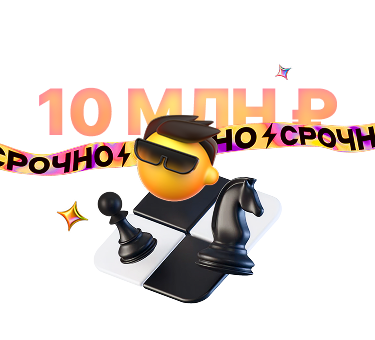
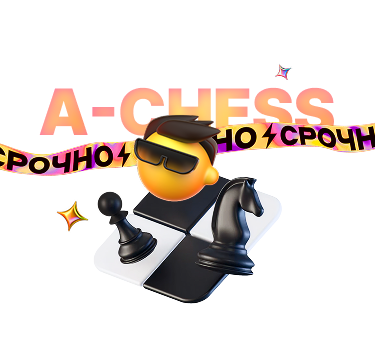
fix

Changed region(s): [[0.088, 0.2353, 0.9093, 0.4118]]

diff --git a/src/App.tsx b/src/App.tsx
@@ -1,19 +1,15 @@
-import { BottomSheet } from '@alfalab/core-components/bottom-sheet/cssm';
 import { Button } from '@alfalab/core-components/button/cssm';
-import { Checkbox } from '@alfalab/core-components/checkbox/cssm';
 import { Gap } from '@alfalab/core-components/gap/cssm';
 import { PureCell } from '@alfalab/core-components/pure-cell/cssm';
 import { Typography } from '@alfalab/core-components/typography/cssm';
 import { ExclamationCircleMIcon } from '@alfalab/icons-glyph/ExclamationCircleMIcon';
 import { useEffect, useState } from 'react';
 import { Swiper, SwiperSlide } from 'swiper/react';
-import detailsImg from './assets/details.png';
-import firstPlaceImg from './assets/place1.svg';
 
 import hbImg from './assets/hb.png';
 import lockImg from './assets/lock.svg';
 import radarImg from './assets/radar.svg';
-import { achievementSlides, avaSlides, boardSlides, bundles, figSlides, listItems, phoneSlides } from './data';
+import { achievementSlides, phoneSlides } from './data';
 import { LS, LSKeys } from './ls';
 import { appSt } from './style.css';
 
@@ -22,13 +18,6 @@ const LINK =
 
 export const App = () => {
   const [loading, setLoading] = useState(false);
-  const [openBs, setOpenBs] = useState(false);
-  const [bundlesState, setBundlesState] = useState<string[]>(['Альфа-Шахматы']);
-
-  const bundlesSum = bundlesState.reduce((sum, title) => {
-    const bundle = bundles.find(b => b.title === title);
-    return sum + (bundle ? (typeof bundle.price === 'number' ? bundle.price : 0) : 0);
-  }, 0);
 
   useEffect(() => {
     if (!LS.getItem(LSKeys.UserId, null)) {
@@ -51,7 +40,7 @@ export const App = () => {
               Альфа-Шахматы
             </Typography.TitleResponsive>
             <Typography.Text view="primary-small" color="secondary">
-              с призовым фондом
+              Стань лучшим среди Альфы
             </Typography.Text>
           </div>
           <img
@@ -61,9 +50,18 @@ export const App = () => {
             height={260}
             style={{ objectFit: 'cover', transform: 'scale(1.1)', margin: '-1rem 0 1rem' }}
           />
-          <Typography.Text view="primary-small" color="secondary">
-            Участвуйте в онлайн турнире с оффлайн финалом в Москве
-          </Typography.Text>
+          <PureCell className={appSt.bannerCell}>
+            <PureCell.Content>
+              <PureCell.Main>
+                <Typography.Text view="primary-small" color="secondary">
+                  Прогрессируйте при помощи классической системы обучения
+                </Typography.Text>
+              </PureCell.Main>
+            </PureCell.Content>
+            <PureCell.Graphics verticalAlign="center">
+              <ExclamationCircleMIcon color="#898991" />
+            </PureCell.Graphics>
+          </PureCell>
         </div>
 
         <div style={{ marginLeft: '20px' }}>
@@ -86,107 +84,7 @@ export const App = () => {
           </Swiper>
         </div>
 
-        <div className={appSt.boxBP}>
-          <Typography.TitleResponsive tag="h3" view="medium" weight="bold">
-            Сезонный пропуск
-          </Typography.TitleResponsive>
-
-          <div>
-            <div className={appSt.row}>
-              <Typography.Text view="primary-large" weight="medium">
-                Рамки аватаров
-              </Typography.Text>
-
-              <div className={appSt.tag}>
-                <Typography.Text view="primary-small" color="secondary">
-                  0 из 20
-                </Typography.Text>
-              </div>
-            </div>
-            <Typography.Text view="primary-small" color="secondary">
-              Уникальная рамка за каждый уровень мастерства
-            </Typography.Text>
-          </div>
-
-          <div>
-            <Swiper slidesPerView="auto" spaceBetween={8}>
-              {avaSlides.map((slide, index) => (
-                <SwiperSlide style={{ width: 'fit-content' }} key={index}>
-                  <div className={appSt.slideAva}>
-                    <Typography.TitleResponsive tag="h3" view="small" weight="bold">
-                      {slide.title}
-                    </Typography.TitleResponsive>
-                    <div style={{ height: '80px', margin: `${index > 6 ? '-20px' : '0'} auto 0` }}>
-                      <img src={slide.img} alt={`Avatar Slide ${index + 1}`} width={80} />
-                    </div>
-                    <div className={appSt.row} style={{ marginTop: 'auto' }}>
-                      <Typography.Text view="primary-small" color="secondary">
-                        Уровень {index + 1}
-                      </Typography.Text>
-                      <img src={lockImg} alt="Lock" width={28} height={28} />
-                    </div>
-                  </div>
-                </SwiperSlide>
-              ))}
-            </Swiper>
-          </div>
-
-          <div>
-            <div className={appSt.row}>
-              <Typography.Text view="primary-large" weight="medium">
-                Наборы досок
-              </Typography.Text>
-
-              <div className={appSt.tag}>
-                <Typography.Text view="primary-small" color="secondary">
-                  0 из 5
-                </Typography.Text>
-              </div>
-            </div>
-            <Typography.Text view="primary-small" color="secondary">
-              5 разных настроений игры
-            </Typography.Text>
-          </div>
-
-          <div>
-            <Swiper slidesPerView="auto" spaceBetween={8}>
-              {boardSlides.map((slide, index) => (
-                <SwiperSlide style={{ width: 'fit-content' }} key={index}>
-                  <img src={slide.img} alt={`Board Slide ${index + 1}`} width={100} height={100} />
-                </SwiperSlide>
-              ))}
-            </Swiper>
-          </div>
-
-          <div>
-            <div className={appSt.row}>
-              <Typography.Text view="primary-large" weight="medium">
-                Наборы фигур
-              </Typography.Text>
-
-              <div className={appSt.tag}>
-                <Typography.Text view="primary-small" color="secondary">
-                  0 из 6
-                </Typography.Text>
-              </div>
-            </div>
-            <Typography.Text view="primary-small" color="secondary">
-              Армия со своим характером
-            </Typography.Text>
-          </div>
-
-          <div>
-            <Swiper slidesPerView="auto" spaceBetween={8}>
-              {figSlides.map((slide, index) => (
-                <SwiperSlide style={{ width: 'fit-content' }} key={index}>
-                  <img src={slide.img} alt={`Figure Slide ${index + 1}`} width={100} height={100} />
-                </SwiperSlide>
-              ))}
-            </Swiper>
-          </div>
-        </div>
-
-        <div className={appSt.boxBP}>
+        <div className={appSt.boxAccess}>
           <Typography.TitleResponsive tag="h3" view="medium" weight="bold">
             Система прогрессии
           </Typography.TitleResponsive>
@@ -222,25 +120,6 @@ export const App = () => {
               <ExclamationCircleMIcon color="#898991" />
             </PureCell.Graphics>
           </PureCell>
-
-          <div style={{ marginTop: '1rem' }}>
-            <div className={appSt.row}>
-              <Typography.Text view="primary-large" weight="medium">
-                ИИ-Ассистент
-              </Typography.Text>
-
-              <div className={appSt.tag}>
-                <Typography.Text view="primary-small" color="secondary">
-                  Бот
-                </Typography.Text>
-              </div>
-            </div>
-            <Typography.Text view="primary-small" color="secondary">
-              Автоподсказки в игре и технический анализ партий
-            </Typography.Text>
-          </div>
-
-          <img src={detailsImg} alt="Details" width="100%" height={271} style={{ objectFit: 'contain' }} />
 
           <div style={{ marginTop: '1rem' }}>
             <div className={appSt.row}>
@@ -294,137 +173,23 @@ export const App = () => {
               ))}
             </Swiper>
           </div>
-        </div>
-
-        <div className={appSt.boxAccess}>
-          <div className={appSt.row}>
-            <Typography.TitleResponsive tag="h3" view="medium" weight="bold">
-              Турнирный допуск
-            </Typography.TitleResponsive>
-
-            <div className={appSt.tag}>
-              <Typography.Text view="primary-small" color="secondary">
-                16+
-              </Typography.Text>
-            </div>
-          </div>
-
-          <PureCell className={appSt.bannerCell}>
-            <PureCell.Content>
-              <PureCell.Main>
-                <Typography.Text view="primary-small" color="secondary">
-                  Примите участи в турнире с призовым фондом в 10 000 000 ₽
-                </Typography.Text>
-              </PureCell.Main>
-            </PureCell.Content>
-            <PureCell.Graphics verticalAlign="center">
-              <ExclamationCircleMIcon color="#898991" />
-            </PureCell.Graphics>
-          </PureCell>
-
-          <div className={appSt.list}>
-            <PureCell className={appSt.listCell}>
-              <PureCell.Graphics verticalAlign="center">
-                <img src={firstPlaceImg} alt="First Place" width={44} height={44} style={{ transform: 'scale(1.5)' }} />
-              </PureCell.Graphics>
-              <PureCell.Content>
-                <PureCell.Main>
-                  <div className={appSt.row}>
-                    <Typography.Text view="primary-medium" weight="medium">
-                      Атомный огурец
-                    </Typography.Text>
-                    <Typography.Text view="primary-small" color="secondary">
-                      104 победы
-                    </Typography.Text>
-                  </div>
-                  <Typography.Text view="primary-small" color="secondary">
-                    Оффлайн-полуфиналист
-                  </Typography.Text>
-                </PureCell.Main>
-              </PureCell.Content>
-            </PureCell>
-            {listItems.map((item, index) => (
-              <PureCell className={appSt.listCellSecondary} key={index}>
-                <PureCell.Graphics verticalAlign="center">
-                  <img src={item.img} alt={item.title} width={44} height={44} />
-                </PureCell.Graphics>
-                <PureCell.Content>
-                  <PureCell.Main>
-                    <div className={appSt.row}>
-                      <Typography.Text view="primary-medium" weight="medium">
-                        {item.title}
-                      </Typography.Text>
-                      <Typography.Text view="primary-small" color="secondary">
-                        {item.wins}
-                      </Typography.Text>
-                    </div>
-                    <Typography.Text view="primary-small" color="secondary">
-                      {item.subtitle}
-                    </Typography.Text>
-                  </PureCell.Main>
-                </PureCell.Content>
-              </PureCell>
-            ))}
-          </div>
           <Gap size={96} />
         </div>
       </div>
 
       <div className={appSt.bottomBtn}>
-        <Button block view="primary" onClick={() => setOpenBs(true)} style={{ borderRadius: '2rem' }}>
-          Играть бесплатно
+        <Button
+          block
+          view="primary"
+          loading={loading}
+          onClick={submit}
+          style={{ borderRadius: '2rem' }}
+          hint="Шахматы + Обучение"
+          size={72}
+        >
+          Играть за 399 ₽
         </Button>
       </div>
-
-      <BottomSheet
-        open={openBs}
-        onClose={() => {
-          setOpenBs(false);
-        }}
-        hasCloser
-        title="Выберите пакет"
-        titleAlign="left"
-        stickyHeader
-        actionButton={
-          <Button loading={loading} block view="primary" onClick={submit} style={{ borderRadius: '2rem' }}>
-            Играть {bundlesSum === 0 ? 'бесплатно' : `за ${bundlesSum} ₽`}
-          </Button>
-        }
-      >
-        <div className={appSt.container} style={{ padding: 0 }}>
-          {bundles.map((bundle, index) => (
-            <PureCell
-              className={appSt.listCell}
-              key={index}
-              onClick={() =>
-                setBundlesState(prev =>
-                  bundlesState.includes(bundle.title)
-                    ? prev.filter(title => title !== bundle.title)
-                    : [...prev, bundle.title],
-                )
-              }
-            >
-              <PureCell.Graphics verticalAlign="center">
-                <img src={bundle.img} alt={bundle.title} width={44} height={44} />
-              </PureCell.Graphics>
-              <PureCell.Content>
-                <PureCell.Main>
-                  <Typography.Text view="primary-medium" weight="medium">
-                    {bundle.title}
-                  </Typography.Text>
-                  <Typography.Text view="primary-small" color="secondary">
-                    {typeof bundle.price === 'number' ? `${bundle.price} ₽` : bundle.price}
-                  </Typography.Text>
-                </PureCell.Main>
-              </PureCell.Content>
-
-              <PureCell.Graphics verticalAlign="center">
-                <Checkbox size={24} checked={bundlesState.includes(bundle.title)} />
-              </PureCell.Graphics>
-            </PureCell>
-          ))}
-        </div>
-      </BottomSheet>
     </>
   );
 };

diff --git a/src/style.css.ts b/src/style.css.ts
@@ -72,6 +72,7 @@ const bannerCell = style({
   border: '1px solid #F2F3F5',
   borderRadius: '24px',
   padding: '1rem',
+  textAlign: 'left',
 });
 
 const slideAch = style({